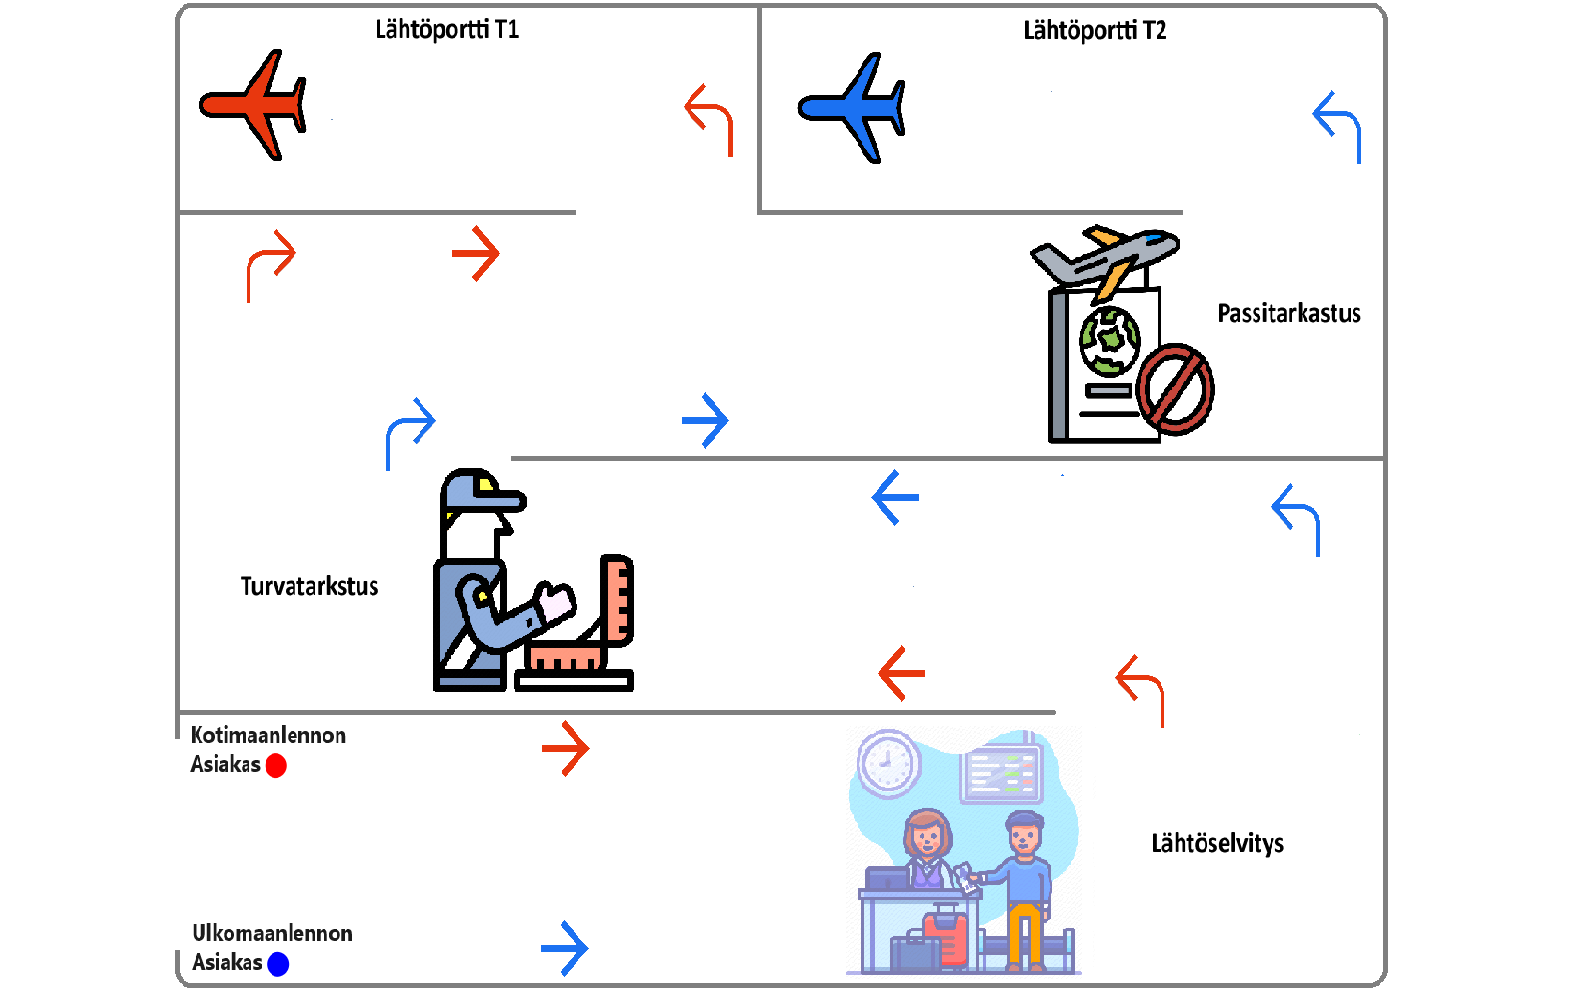
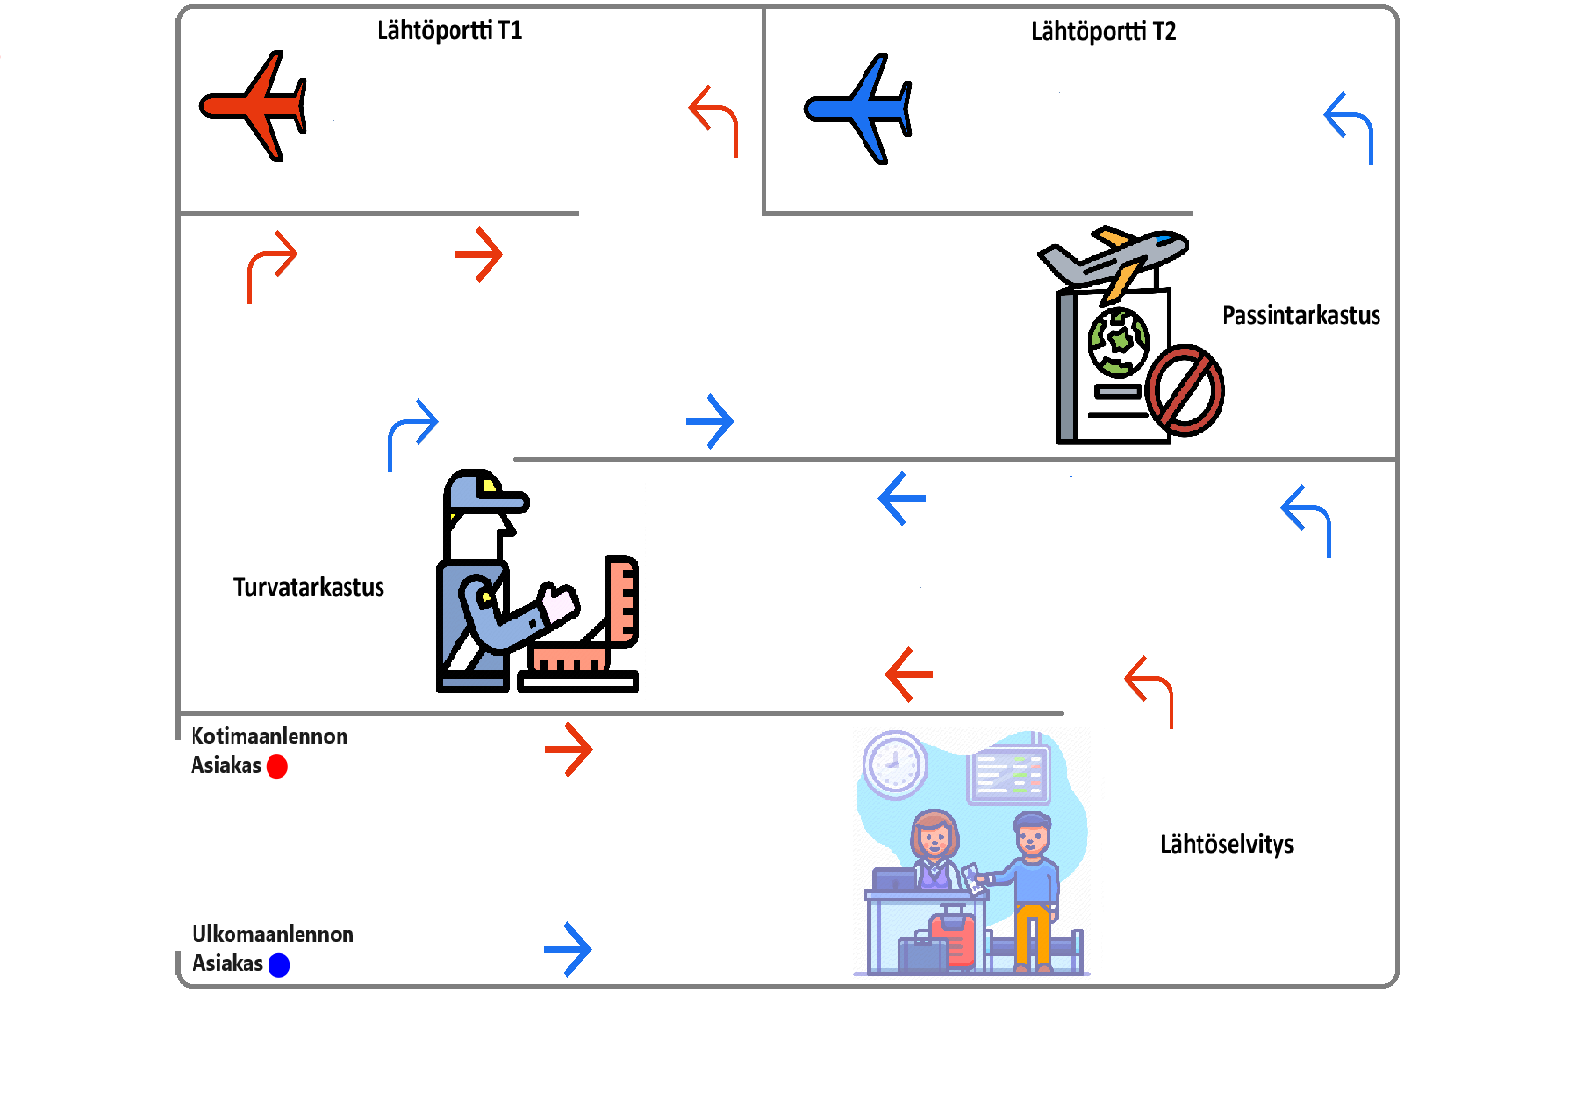
Taustakuva on korjattu

diff --git a/src/main/java/simu/model/Palvelupiste.java b/src/main/java/simu/model/Palvelupiste.java
@@ -205,10 +205,10 @@ public class Palvelupiste {
 	public void piirra(GraphicsContext gc) {
 		gc.setFont(javafx.scene.text.Font.font("Verdana", 15));
 		if (this.nimi.equals("LS"))
-			gc.strokeText("Pisteiden maara: " + this.pisteidenMaara, this.x + 310, this.y + 60);
+			gc.strokeText("Pisteiden määrä: " + this.pisteidenMaara, this.x + 315, this.y + 60);
 		else if (this.nimi.equals("PT"))
-			gc.strokeText("Pisteiden maara: " + this.pisteidenMaara, this.x + 190, this.y + 43);
+			gc.strokeText("Pisteiden määrä: " + this.pisteidenMaara, this.x + 200, this.y + 45);
 		else if (this.nimi.equals("TT"))
-			gc.strokeText("Pisteiden maara: " + this.pisteidenMaara, this.x - 385, this.y + 60);
+			gc.strokeText("Pisteiden määrä: " + this.pisteidenMaara, this.x - 385, this.y + 60);
 	}
 }

diff --git a/src/main/java/simu/model/OmaMoottori.java b/src/main/java/simu/model/OmaMoottori.java
@@ -24,7 +24,7 @@ public class OmaMoottori extends Moottori {
 		palvelupisteet = new Palvelupiste[5];
 
 		// Lähtöselvitys
-		palvelupisteet[0] = new Palvelupiste(700, 530, "LS", kontrolleri.getLahtoselvitysMaara(),
+		palvelupisteet[0] = new Palvelupiste(700, 533, "LS", kontrolleri.getLahtoselvitysMaara(),
 				new Normal(kontrolleri.getLSpalveluNopeus(), kontrolleri.getLahtoselvitysVar()), tapahtumalista,
 				TapahtumanTyyppi.DEP1);
 		// Turvatarkastus
